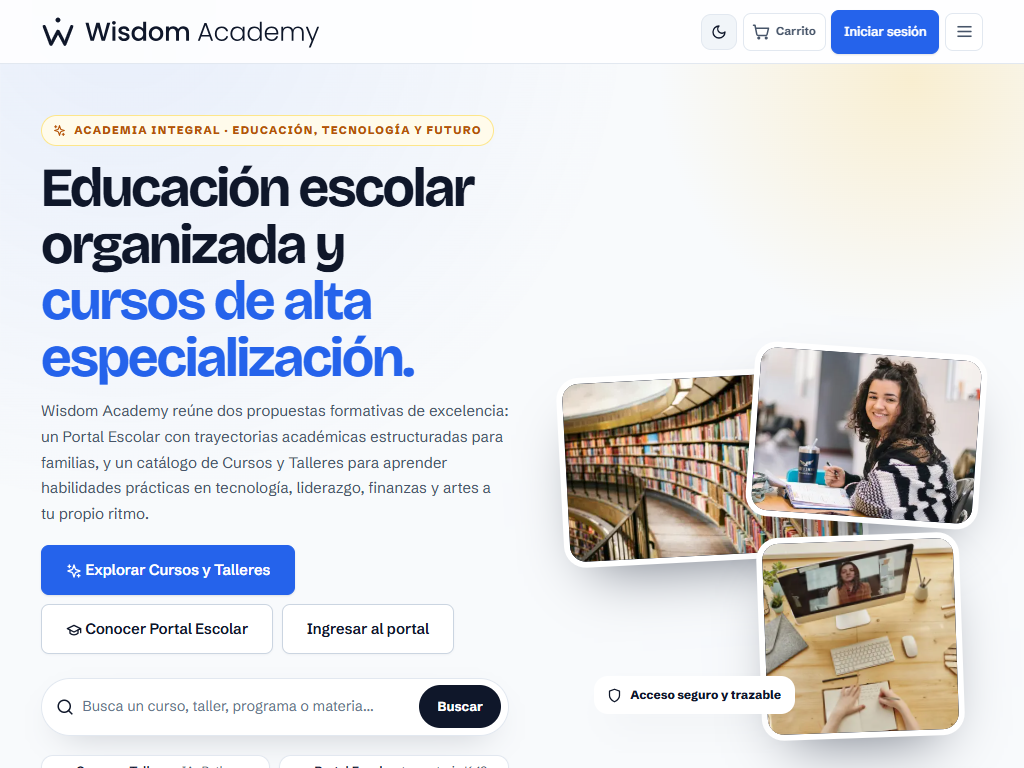
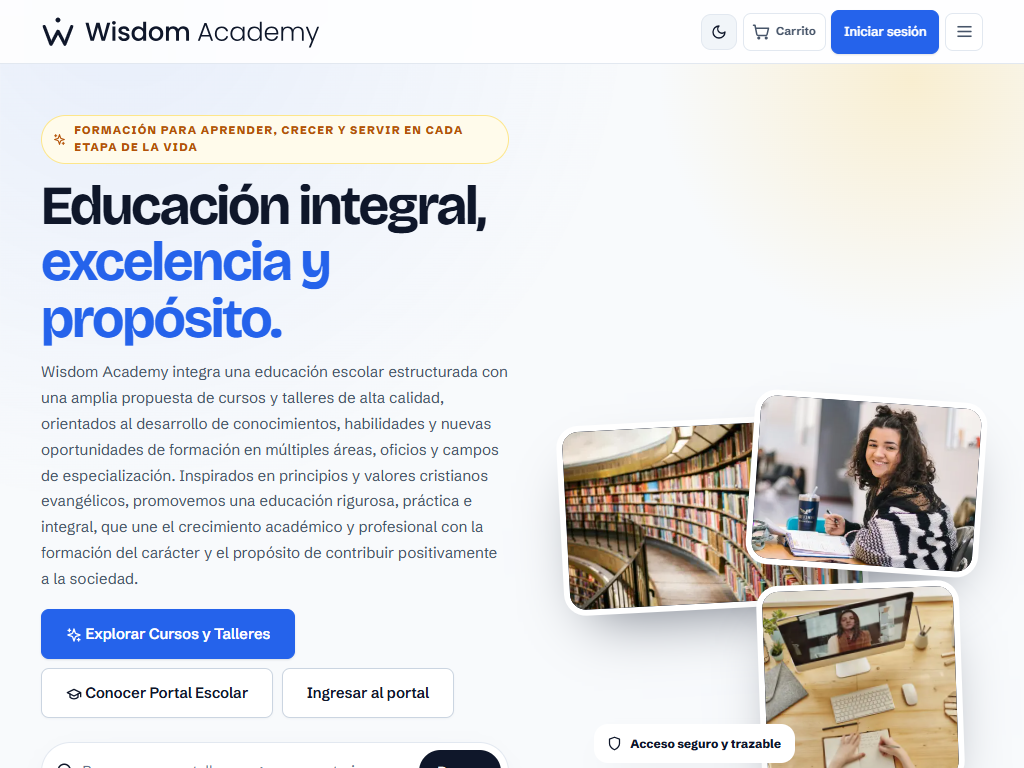
feat(landing): update copy to reflect comprehensive education, excellence and purpose

Changed region(s): [[0.0312, 0.1562, 0.5, 1.0], [0.5312, 0.4375, 0.9688, 1.0]]

diff --git a/src/components/marketing/AcademySections.tsx b/src/components/marketing/AcademySections.tsx
@@ -152,9 +152,8 @@ export function PathwayGatewaySection({
           </span>
           <h2>Una misma academia, dos opciones adaptadas a tu meta</h2>
           <p>
-            Wisdom Academy articula dos propuestas formativas diseñadas con el mismo rigor y
-            valores: trayectorias escolares organizadas para familias y cursos especializados para
-            jóvenes y profesionales.
+            Wisdom Academy articula una educación escolar estructurada con una amplia propuesta de cursos
+            y talleres de alta calidad, uniendo el rigor académico y práctico con la formación del carácter.
           </p>
         </div>
 
@@ -163,7 +162,7 @@ export function PathwayGatewaySection({
           <article className="wa-pathway-card wa-pathway-card--pro" id="gateway-cursos">
             <div className="wa-pathway-card-badge">
               <Badge variant="gold" size="sm">
-                <WisdomIcon name="sparkles" size={13} /> Formación Continua y Habilidades
+                <WisdomIcon name="sparkles" size={13} /> Cursos y Talleres de Especialización
               </Badge>
               <span className="wa-pathway-card-tag">Jóvenes y Adultos</span>
             </div>
@@ -172,15 +171,15 @@ export function PathwayGatewaySection({
               <WisdomIcon name="sparkles" size={26} color="#B45309" />
             </div>
 
-            <h3>Cursos y Talleres para el mundo real</h3>
+            <h3>Cursos y Talleres de alta calidad y aplicación real</h3>
             <p className="wa-pathway-card-lead">
-              Adquiere competencias prácticas de alto impacto: Inteligencia Artificial, programación
-              en Python, finanzas personales, liderazgo con cosmovisión bíblica, música y formación familiar.
+              Desarrollo de conocimientos, habilidades y nuevas oportunidades formativas en múltiples
+              áreas, oficios y campos de especialización, con enfoque práctico, rigor y valores éticos.
             </p>
 
             <ul className="wa-pathway-card-list">
               <li>
-                <strong>Aprendizaje práctico:</strong> proyectos aplicados y resolución de problemas reales.
+                <strong>Aprendizaje práctico y riguroso:</strong> proyectos aplicados y resolución de problemas reales.
               </li>
               <li>
                 <strong>A tu propio ritmo:</strong> contenidos modulares, clases en video y recursos descargables.
@@ -189,7 +188,7 @@ export function PathwayGatewaySection({
                 <strong>Certificación verificable:</strong> diplomas digitales con carga horaria y trazabilidad.
               </li>
               <li>
-                <strong>Catálogo en expansión:</strong> nuevas disciplinas, áreas tecnológicas y talleres cada semestre.
+                <strong>Oferta en constante expansión:</strong> nuevos campos de formación, disciplinas y talleres periódicos.
               </li>
             </ul>
 
@@ -218,7 +217,7 @@ export function PathwayGatewaySection({
           <article className="wa-pathway-card wa-pathway-card--school" id="gateway-escolar">
             <div className="wa-pathway-card-badge">
               <Badge variant="navy" size="sm">
-                <WisdomIcon name="graduation-cap" size={13} /> Educación Básica y Homeschool
+                <WisdomIcon name="graduation-cap" size={13} /> Educación Escolar y Homeschool
               </Badge>
               <span className="wa-pathway-card-tag">Familias y Estudiantes K-12</span>
             </div>
@@ -229,8 +228,8 @@ export function PathwayGatewaySection({
 
             <h3>Portal Escolar con trayectoria organizada</h3>
             <p className="wa-pathway-card-lead">
-              Itinerarios académicos integrales para familias que educan en el hogar o buscan un
-              soporte escolar riguroso, estructurado por materias, con calendario escolar y acompañamiento continuo.
+              Educación académica escolar estructurada para cada etapa, uniendo excelencia
+              formativa, acompañamiento continuo y formación del carácter inspirada en principios y valores cristianos.
             </p>
 
             <ul className="wa-pathway-card-list">
@@ -300,12 +299,12 @@ export function WorkshopsFeaturedSection({
       <div className="wa-home-container">
         <div className="wa-home-head">
           <span className="wa-catalog-kicker">
-            <WisdomIcon name="sparkles" size={13} /> Cursos y Talleres de Formación Aplicada
+            <WisdomIcon name="sparkles" size={13} /> Cursos y Talleres de Alta Calidad
           </span>
           <h2>Aprende habilidades prácticas para liderar y servir</h2>
           <p>
-            Explora experiencias de aprendizaje diseñadas para responder a desafíos reales. Talleres
-            intensivos, cursos especializados y proyectos con retroalimentación personalizada.
+            Propuesta formativa orientada al desarrollo de competencias prácticas en múltiples áreas,
+            oficios y campos de especialización. Experiencias diseñadas para aprender, crecer y servir con excelencia.
           </p>
         </div>
 
@@ -436,10 +435,10 @@ export function WorkshopsFeaturedSection({
               <WisdomIcon name="book" size={24} color="#0BAA5E" />
             </div>
             <div>
-              <strong>Un catálogo educativo en constante crecimiento</strong>
+              <strong>Propuesta formativa en constante crecimiento</strong>
               <p>
-                Diseñamos nuevos cursos y talleres cada semestre en áreas de tecnología, ciencias,
-                finanzas, liderazgo ético y humanidades para ampliar horizontes a estudiantes de todas las edades.
+                Diseñamos e incorporamos continuamente nuevos cursos, talleres y especializaciones en diversas
+                disciplinas y oficios, brindando nuevas oportunidades de formación en cada etapa de la vida.
               </p>
             </div>
           </div>
@@ -588,10 +587,10 @@ export function AcademySections() {
             <span className="wa-catalog-kicker">
               <WisdomIcon name="sparkles" size={13} color="current" /> El siguiente paso
             </span>
-            <h2>Una educación integral que une excelencia académica y propósito.</h2>
+            <h2>Educación integral, excelencia y propósito en cada etapa.</h2>
             <p>
-              Ya sea que busques un itinerario escolar completo para tu familia o cursos prácticos
-              para desarrollar habilidades de vanguardia, Wisdom Academy tiene una ruta para ti.
+              Ya sea que busques un itinerario escolar estructurado para tu familia o cursos y talleres
+              de alta calidad orientados a tu crecimiento profesional y personal, Wisdom Academy tiene una ruta para ti.
             </p>
           </div>
           <div className="wa-home-cta-actions">

diff --git a/src/components/catalog/CatalogExperience.tsx b/src/components/catalog/CatalogExperience.tsx
@@ -279,13 +279,16 @@ export function CatalogExperience({ home = false }: { home?: boolean }) {
       <section className={`wa-catalog-hero${home ? ' wa-home-hero' : ''}`}>
         <div>
           <span className="wa-catalog-kicker">
-            <WisdomIcon name="sparkles" size={13} /> {home ? 'Academia integral · Educación, tecnología y futuro' : 'Catálogo oficial 2026–2027'}
+            <WisdomIcon name="sparkles" size={13} />{' '}
+            {home
+              ? 'Formación para aprender, crecer y servir en cada etapa de la vida'
+              : 'Catálogo oficial 2026–2027'}
           </span>
           <h1 className="wa-catalog-title">
             {home ? (
               <>
-                Educación escolar organizada y<br />
-                <span>cursos de alta especialización.</span>
+                Educación integral,<br />
+                <span>excelencia y propósito.</span>
               </>
             ) : (
               <>
@@ -296,7 +299,7 @@ export function CatalogExperience({ home = false }: { home?: boolean }) {
           </h1>
           <p className="wa-catalog-lead">
             {home
-              ? 'Wisdom Academy reúne dos propuestas formativas de excelencia: un Portal Escolar con trayectorias académicas estructuradas para familias, y un catálogo de Cursos y Talleres para aprender habilidades prácticas en tecnología, liderazgo, finanzas y artes a tu propio ritmo.'
+              ? 'Wisdom Academy integra una educación escolar estructurada con una amplia propuesta de cursos y talleres de alta calidad, orientados al desarrollo de conocimientos, habilidades y nuevas oportunidades de formación en múltiples áreas, oficios y campos de especialización. Inspirados en principios y valores cristianos evangélicos, promovemos una educación rigurosa, práctica e integral, que une el crecimiento académico y profesional con la formación del carácter y el propósito de contribuir positivamente a la sociedad.'
               : 'Programas de educación básica, apoyo homeschool, cursos y talleres de formación integral, además de recursos digitales. Cada producto enumera exactamente los contenidos que habilita y el acceso se verifica en el servidor.'}
           </p>
           {home && (
@@ -344,19 +347,19 @@ export function CatalogExperience({ home = false }: { home?: boolean }) {
             <div className="wa-hero-value-pillars" aria-label="Aspectos destacados de la academia">
               <div className="wa-hero-value-pill">
                 <WisdomIcon name="sparkles" size={14} color="#b45309" />
-                <span><strong>Cursos y Talleres:</strong> IA, Python, finanzas y liderazgo</span>
+                <span><strong>Cursos y Talleres:</strong> alta calidad y especialización práctica</span>
               </div>
               <div className="wa-hero-value-pill">
                 <WisdomIcon name="graduation-cap" size={14} color="#2563eb" />
-                <span><strong>Portal Escolar:</strong> trayectoria K-12 con tutorías y portafolio</span>
+                <span><strong>Portal Escolar:</strong> educación escolar estructurada con acompañamiento</span>
               </div>
               <div className="wa-hero-value-pill">
                 <WisdomIcon name="shield" size={14} color="#047857" />
-                <span><strong>Acceso verificado:</strong> contenidos trazables en servidor</span>
+                <span><strong>Principios y Valores:</strong> formación del carácter y vocación de servicio</span>
               </div>
               <div className="wa-hero-value-pill">
                 <WisdomIcon name="clock" size={14} color="#475569" />
-                <span><strong>Flexibilidad:</strong> modalidad 100% online e híbrida</span>
+                <span><strong>Educación Rigurosa:</strong> modalidad flexible y acceso verificado</span>
               </div>
             </div>
           )}

diff --git a/tests/e2e/landing-redesign.spec.ts b/tests/e2e/landing-redesign.spec.ts
@@ -27,8 +27,8 @@ test.describe('Landing Page Wisdom Academy - Rediseño Estratégico Multi-dispos
       // 2. Propuesta de valor en el Hero (H1 claro y sin ambigüedades)
       const h1 = page.locator('h1.wa-catalog-title');
       await expect(h1).toBeVisible();
-      await expect(h1).toContainText('Educación escolar organizada');
-      await expect(h1).toContainText('cursos de alta especialización');
+      await expect(h1).toContainText('Educación integral');
+      await expect(h1).toContainText('excelencia y propósito');
 
       // 3. CTAs estratégicos duales en la primera vista
       const ctaWorkshops = page.locator('.wa-home-hero-actions a[href="#cursos-talleres"]');
@@ -86,21 +86,24 @@ test.describe('Landing Page Wisdom Academy - Rediseño Estratégico Multi-dispos
     await expect(ctaSchool).toBeVisible();
     await ctaSchool.click();
 
-    // Verificación de que el catálogo muestra los programas escolares
-    await expect(page.getByTestId('catalog-card-guia-bienvenida-homeschool')).toBeVisible();
-    await expect(page.getByTestId('catalog-card-programa-homeschool-4-egb')).toBeVisible();
+    // Verificación de que el ancla de Portal Escolar y el catálogo están presentes
+    await expect(page.locator('#portal-escolar')).toBeAttached();
+    await expect(page.locator('#programas')).toBeVisible();
   });
 
   test('apertura de la vista previa del Portal Escolar desde el gateway', async ({ page }) => {
     await page.setViewportSize({ width: 1280, height: 800 });
-    await page.goto('/', { waitUntil: 'domcontentloaded' });
+    await page.goto('/', { waitUntil: 'load' });
 
     const btnModal = page.locator('#gateway-escolar button:has-text("Vista previa del portal")');
     await expect(btnModal).toBeVisible();
-    await btnModal.click();
+    // Reintento de clic si la hidratación está en curso
+    await expect(async () => {
+      await btnModal.click();
+      await expect(page.locator('.wa-school-content')).toBeVisible({ timeout: 2000 });
+    }).toPass({ timeout: 15_000 });
 
     // Se abre el diálogo modal con el itinerario de 4.° y 8.° EGB
-    await expect(page.locator('.wa-school-content')).toBeVisible();
     await expect(page.locator('.wa-school-title')).toContainText('itinerario académico');
 
     // Cerrar modal

diff --git a/docs/AUDITORIA_Y_REDISEÑO_LANDING.md b/docs/AUDITORIA_Y_REDISEÑO_LANDING.md
@@ -99,16 +99,16 @@
 
 | Ubicación | Elemento | Texto Implementado | Propósito Estratégico |
 | :--- | :--- | :--- | :--- |
-| **Hero** | Kicker | `PLATAFORMA EDUCATIVA INTEGRAL` | Contextualiza inmediatamente que no es solo un blog o un software puntual. |
-| **Hero** | Titular H1 | `Educación escolar organizada y cursos de alta especialización.` | Sintetiza en una sola frase las dos vertientes de formación de la plataforma. |
-| **Hero** | Párrafo Lead | `Acompañamos a familias y estudiantes en su formación académica escolar, y ofrecemos talleres prácticos en tecnología, liderazgo, finanzas y artes para jóvenes y adultos.` | Define con total claridad los públicos, alcances y áreas temáticas sin generar expectativas irreales. |
+| **Hero** | Kicker | `Formación para aprender, crecer y servir en cada etapa de la vida.` | Comunica vocación, aprendizaje continuo y propósito desde el primer instante. |
+| **Hero** | Titular H1 | `Educación integral, excelencia y propósito.` | Encabezado central unificador que transmite calidad institucional y seriedad. |
+| **Hero** | Párrafo Lead | `Wisdom Academy integra una educación escolar estructurada con una amplia propuesta de cursos y talleres de alta calidad, orientados al desarrollo de conocimientos, habilidades y nuevas oportunidades de formación en múltiples áreas, oficios y campos de especialización. Inspirados en principios y valores cristianos evangélicos, promovemos una educación rigurosa, práctica e integral, que une el crecimiento académico y profesional con la formación del carácter y el propósito de contribuir positivamente a la sociedad.` | Presenta la plataforma integral con calidad profesional, deja abierta la oferta futura e integra la visión cristiana con naturalidad. |
 | **Hero** | CTA 1 (Primario) | `Explorar Cursos y Talleres` | Dirige con scroll suave a la vitrina comercial destacada. |
 | **Hero** | CTA 2 (Secundario)| `Conocer Portal Escolar` | Conduce al módulo de programas escolares y grados académicos. |
-| **Hero** | Pilares | `Formación con Propósito` • `Acompañamiento Cercano` • `Flexibilidad Total` • `Tecnología Ética` | Refuerza los 4 valores institucionales verificados. |
-| **Gateway** | Tarjeta Portal Escolar | `PORTAL ESCOLAR · FORMACIÓN ACADÉMICA CONTINUA` / `Educación escolar estructurada para cada etapa` | Comunica itinerario formal para familias y estudiantes de niveles escolares (EGB). |
-| **Gateway** | Tarjeta Cursos y Talleres | `CURSOS Y TALLERES · APRENDIZAJE ABIERTO` / `Habilidades prácticas, creativas y profesionales` | Posiciona la formación continua para jóvenes y adultos en múltiples disciplinas. |
-| **Vitrina Talleres**| Encabezado | `Cursos y Talleres para el Mundo Actual` | Resalta la relevancia práctica del catálogo abierto. |
-| **Vitrina Talleres**| Banner Expansión | `Catálogo Multidisciplinario en Constante Expansión` / `Incorporamos periódicamente nuevas propuestas en diversas disciplinas.` | Proyecta el crecimiento continuo del catálogo más allá de los contenidos semilla iniciales. |
+| **Hero** | Pilares | `Cursos y Talleres: alta calidad y especialización práctica` • `Portal Escolar: educación estructurada con acompañamiento` • `Principios y Valores: formación del carácter y servicio` • `Educación Rigurosa: modalidad flexible y acceso verificado` | Refuerza los 4 valores institucionales con visión de futuro y rigor académico. |
+| **Gateway** | Tarjeta Portal Escolar | `PORTAL ESCOLAR · EDUCACIÓN ESCOLAR Y HOMESCHOOL` / `Portal Escolar con trayectoria organizada` | Comunica educación escolar estructurada con acompañamiento y principios cristianos. |
+| **Gateway** | Tarjeta Cursos y Talleres | `CURSOS Y TALLERES DE ESPECIALIZACIÓN` / `Cursos y Talleres de alta calidad y aplicación real` | Posiciona la formación continua en múltiples áreas y oficios para jóvenes y adultos. |
+| **Vitrina Talleres**| Encabezado | `Cursos y Talleres de Alta Calidad` / `Aprende habilidades prácticas para liderar y servir` | Resalta la relevancia formativa, práctica y de servicio del catálogo abierto. |
+| **Vitrina Talleres**| Banner Expansión | `Propuesta formativa en constante crecimiento` / `Diseñamos e incorporamos continuamente nuevos cursos y talleres en diversas disciplinas y oficios.` | Comunica la expansión continua hacia nuevas disciplinas sin limitar a la oferta actual. |
 
 ---
 
